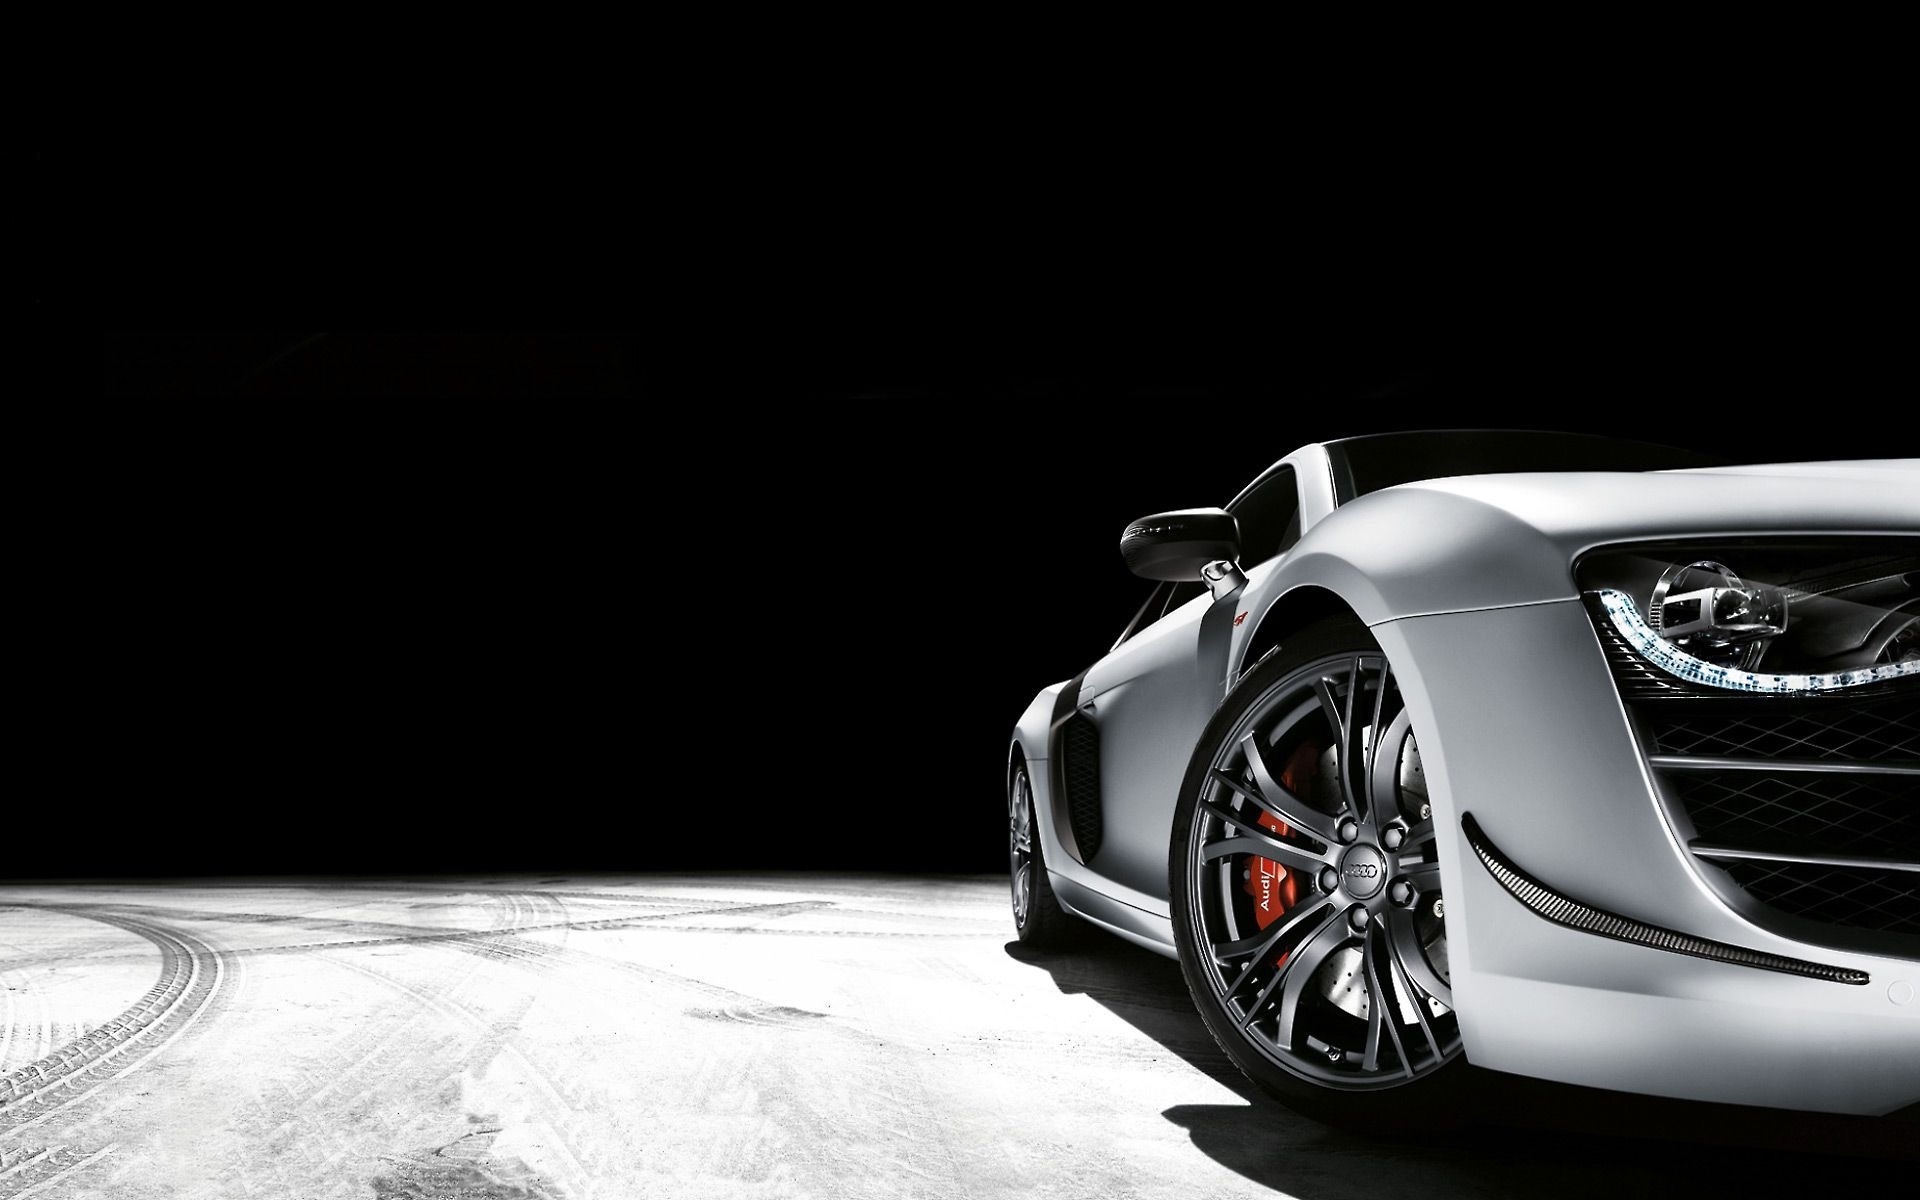
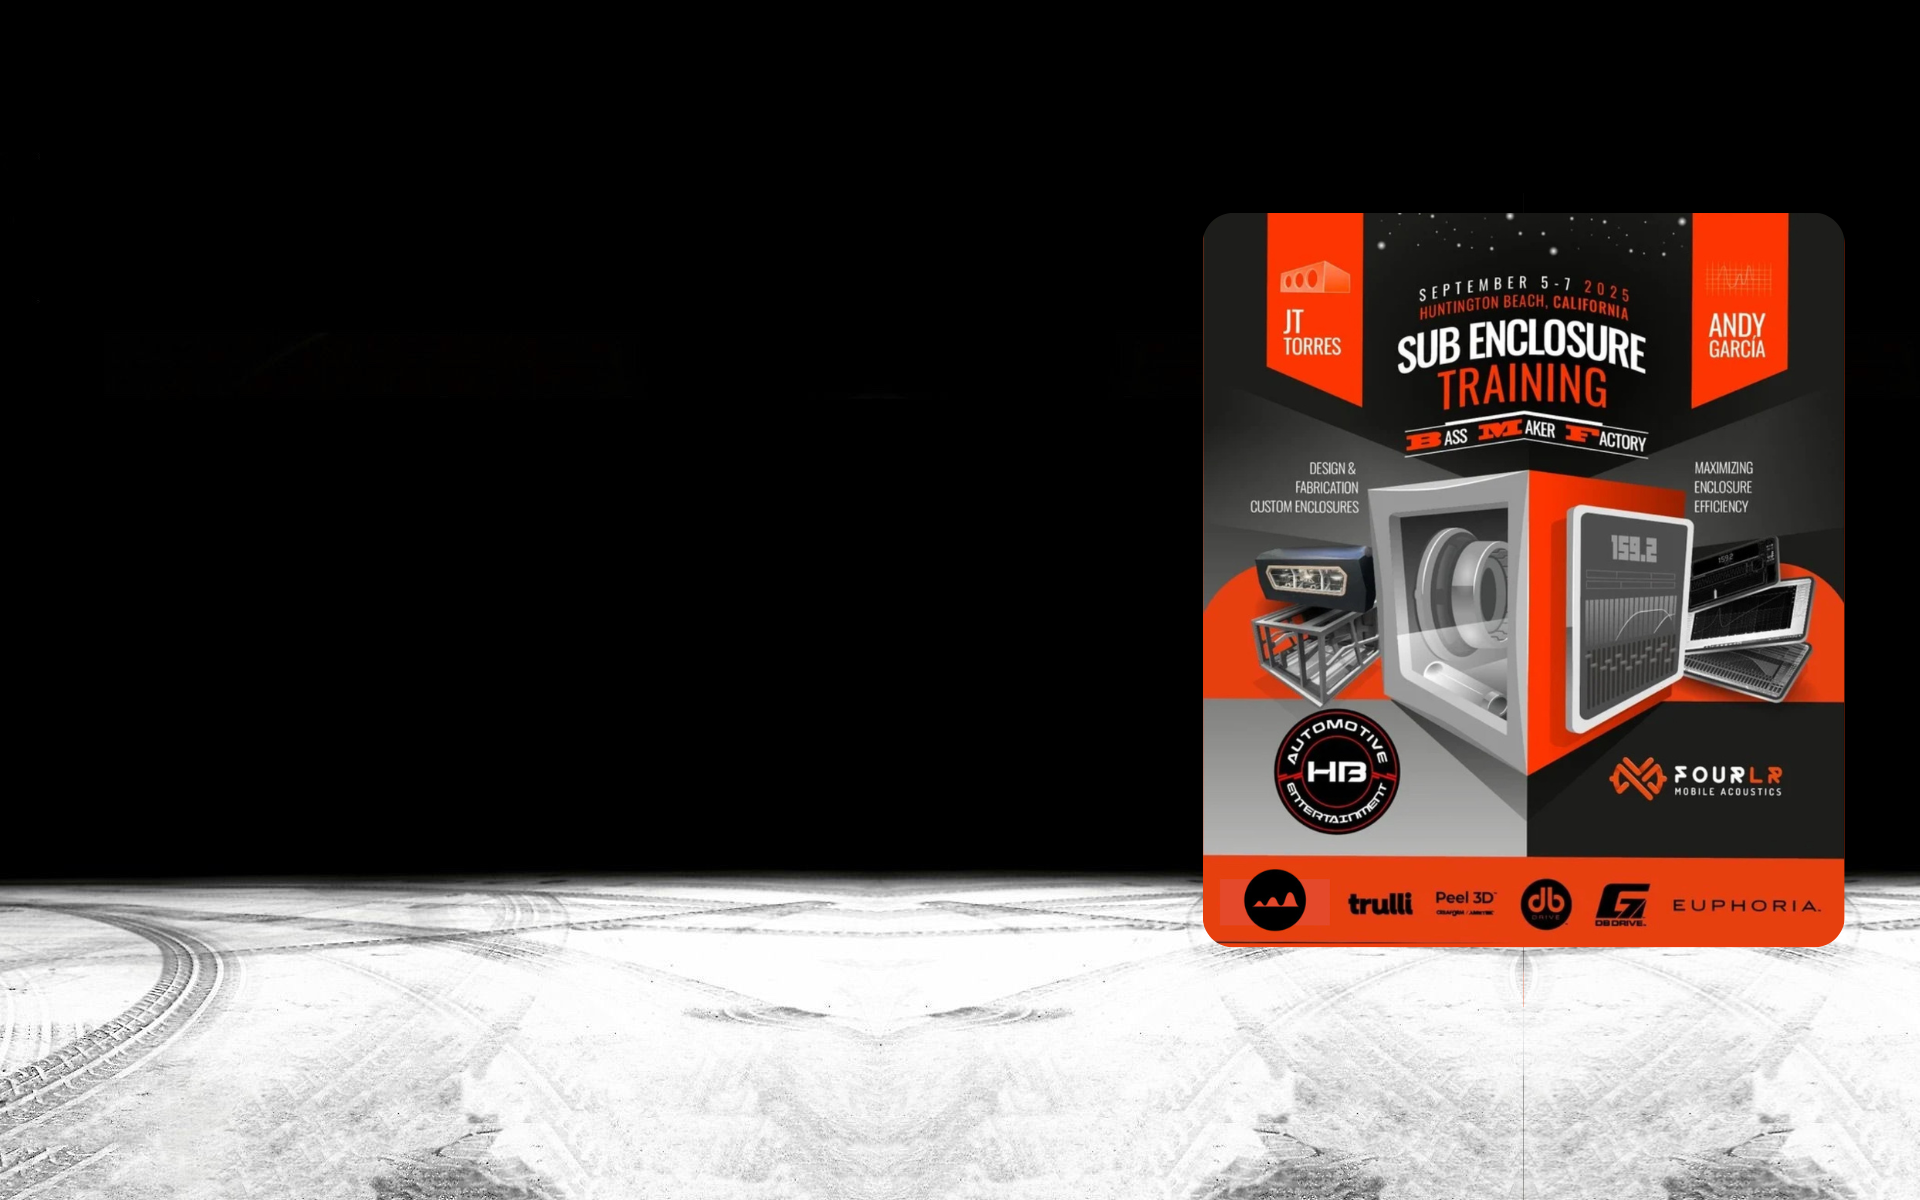
new file:   images/.DS_Store

Changed region(s): [[0.4688, 0.1542, 1.0, 1.0], [0.5, 0.8942, 0.5312, 0.925]]

diff --git a/index.html b/index.html
@@ -691,7 +691,7 @@
                   data-y="['middle','middle','middle','middle']"
                   data-frames='[{"from":"y:[100%];z:0;rX:0deg;rY:0;rZ:0;sX:1;sY:1;skX:0;skY:0;","mask":"x:0px;y:0px;s:inherit;e:inherit;","speed":1500,"to":"o:1;","delay":1000,"ease":"Power3.easeInOut"},{"delay":"wait","speed":1000,"to":"auto:auto;","mask":"x:0;y:0;s:inherit;e:inherit;","ease":"Power3.easeInOut"}]'
                 >
-                  <h4>Your Vehicle's</h4>
+                  <h4>HB Automotive Entertainmen-</h4>
                 </div>
 
                 <div
@@ -711,7 +711,7 @@
                   data-y="['middle','middle','middle','middle']"
                   data-frames='[{"from":"y:[100%];z:0;rX:0deg;rY:0;rZ:0;sX:1;sY:1;skX:0;skY:0;","mask":"x:0px;y:0px;s:inherit;e:inherit;","speed":1500,"to":"o:1;","delay":1000,"ease":"Power3.easeInOut"},{"delay":"wait","speed":1000,"to":"auto:auto;","mask":"x:0;y:0;s:inherit;e:inherit;","ease":"Power3.easeInOut"}]'
                 >
-                  <h2>Custom Audio Solution</h2>
+                  <h2>Enroll in Our New Classes!</h2>
                 </div>
 
                 <div
@@ -732,12 +732,9 @@
                   data-frames='[{"from":"y:[-100%];z:0;rX:0deg;rY:0;rZ:0;sX:1;sY:1;skX:0;skY:0;","mask":"x:0px;y:0px;s:inherit;e:inherit;","speed":1500,"to":"o:1;","delay":1000,"ease":"Power3.easeInOut"},{"delay":"wait","speed":1000,"to":"auto:auto;","mask":"x:0;y:0;s:inherit;e:inherit;","ease":"Power3.easeInOut"}]'
                 >
                   <div class="text">
-                    Designing and Fabricating
-                    <strong>Hand-Crafted Subwoofer Enclosures</strong> ,
-                    <strong>Stereo Systems</strong>
-                    <br />
-                    and <strong>Vehicle Audio Fabrication</strong> for
-                    High-Performance Sound Systems
+                    Learn The Latest In Automotive Audio & Lighting
+                    Customization From Experts at
+                    <strong>Automotive Entertainment OC.</strong>
                   </div>
                 </div>
 
@@ -759,7 +756,7 @@
                   data-frames='[{"from":"y:[100%];z:0;rX:0deg;rY:0;rZ:0;sX:1;sY:1;skX:0;skY:0;","mask":"x:0px;y:0px;s:inherit;e:inherit;","speed":1500,"to":"o:1;","delay":1000,"ease":"Power3.easeInOut"},{"delay":"wait","speed":1000,"to":"auto:auto;","mask":"x:0;y:0;s:inherit;e:inherit;","ease":"Power3.easeInOut"}]'
                 >
                   <a href="appointment.html" class="theme-btn btn-style-one"
-                    >Booking Now</a
+                    >Sign Up</a
                   >
                 </div>
               </li>
